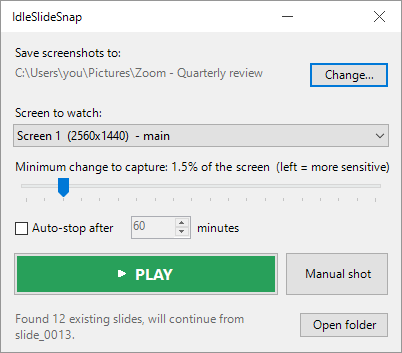
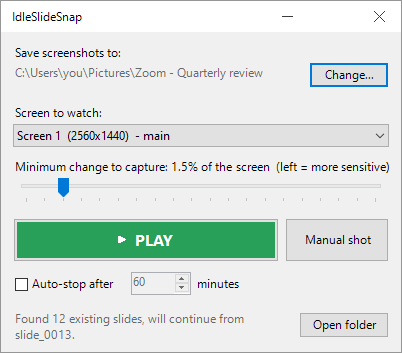
Move auto-stop below the play/stop button

Changed region(s): [[0.0299, 0.5921, 0.7164, 0.8414], [0.7164, 0.6544, 0.9552, 0.8102]]

diff --git a/IdleSlideSnap.cs b/IdleSlideSnap.cs
@@ -87,14 +87,14 @@ class MainForm : Form
         UpdateSens();
 
         // Off by default, so it records until you hit STOP.
-        chkAutoStop = new CheckBox { Text = "Auto-stop after", Location = new Point(14, 186), AutoSize = true };
-        numMinutes = new NumericUpDown { Location = new Point(130, 184), Size = new Size(60, 24), Minimum = 1, Maximum = 999, Value = 60, Enabled = false };
+        chkAutoStop = new CheckBox { Text = "Auto-stop after", Location = new Point(14, 242), AutoSize = true };
+        numMinutes = new NumericUpDown { Location = new Point(130, 240), Size = new Size(60, 24), Minimum = 1, Maximum = 999, Value = 60, Enabled = false };
         chkAutoStop.CheckedChanged += delegate { numMinutes.Enabled = chkAutoStop.Checked; UpdateTitle(); };
-        Label lblMinutes = new Label { Text = "minutes", Location = new Point(194, 187), AutoSize = true };
+        Label lblMinutes = new Label { Text = "minutes", Location = new Point(194, 243), AutoSize = true };
 
-        btnPlay = new Button { Location = new Point(12, 220), Size = new Size(266, 44), Font = new Font("Segoe UI", 12f, FontStyle.Bold) };
+        btnPlay = new Button { Location = new Point(12, 186), Size = new Size(266, 44), Font = new Font("Segoe UI", 12f, FontStyle.Bold) };
         btnPlay.Click += delegate { Toggle(); };
-        btnShot = new Button { Text = "Manual shot", Location = new Point(284, 220), Size = new Size(104, 44) };
+        btnShot = new Button { Text = "Manual shot", Location = new Point(284, 186), Size = new Size(104, 44) };
         btnShot.Click += delegate { ManualShot(); };
 
         lblStatus = new Label { Location = new Point(12, 278), Size = new Size(280, 34), ForeColor = Color.DimGray };
